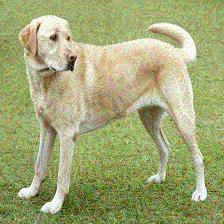
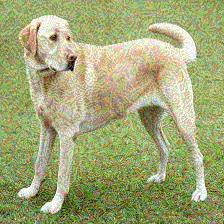
temps

diff --git a/attackers/diffusionClassifier.py b/attackers/diffusionClassifier.py
@@ -1,10 +1,14 @@
+# Implements the Algorithm 1 Diffusion Classifier from:
+# Li, A. C., Prabhudesai, M., Duggal, S., Brown, E., & Pathak, D. (2023, September 13). 
+# Your diffusion model is secretly a zero-shot classifier. 
+# arXiv.org. https://arxiv.org/abs/2303.16203 
+
 import torch
 from diffusers import StableDiffusionPipeline
 from PIL import Image
 import numpy as np
 
 pipe = StableDiffusionPipeline.from_pretrained("runwayml/stable-diffusion-v1-5", torch_dtype=torch.float16).to("cuda")
-
 
 tokenizer = pipe.tokenizer
 text_encoder = pipe.text_encoder
@@ -23,29 +27,41 @@ def encode_prompts(class_prompts):
 def diffusion_classifier(image_path, class_prompts, trials):
     cond_inp = encode_prompts(class_prompts)
     
+    # Prep input
     x = Image.open(image_path).convert("RGB")
-     
+    
     import torchvision.transforms.functional as TF
     x = x.resize((512, 512))
     img_tensor = TF.to_tensor(x).unsqueeze(0) * 2.0 - 1.0
     img_tensor = img_tensor.to("cuda", torch.float16)
     
-    
+    # Compress image to latent
     posterior = vae.encode(img_tensor).latent_dist
     latents = posterior.sample() * 0.18215
     
+    # List of loss error's for prompt c.
     errors = [[] for _ in range(len(cond_inp))]
-    for i in range(trials):
+    
+    # Monte Carlo loop
+    for i in range(trials): 
+        # Sample random timestamp t
         t = torch.randint(0, scheduler.config.num_train_timesteps, (1,), device=latents.device)
+        # Sample gaussian noise ε
         noise = torch.randn_like(latents)
         
+        # x_t = sqrt(ᾱ_t) * latents + sqrt(1 - ᾱ_t) * noise
+        # add noise to image at t
         x_t = scheduler.add_noise(latents, noise, t)
+        # Loop over each encoded prompt
         for k in range(len(cond_inp)):
             c_k = cond_inp[k:k+1]
+            # UNET outputs expected noise at t
             pred = unet(x_t, t, encoder_hidden_states=c_k).sample
+            # Noise-pred error for (t, ε) under prompt c_k
             err = ((noise - pred) ** 2).mean()
             errors[k].append(err.item())
 
+    # Take smallest mean loss for each encoded prompt, this has highest prob of being the "correct" prompt
     mean_errors = [np.mean(errors[i]) for i in range(len(cond_inp))]
     best = np.argmin(mean_errors)
     
@@ -59,8 +75,8 @@ if __name__ == "__main__":
         "a photo of a school bus",
         "a photo of an iguana",
     ]
-    result = diffusion_classifier("fgsm_img.jpg", class_prompts, trials=20)
-    base = diffusion_classifier("YellowLabradorLooking_new.jpg", class_prompts, trials=20)
+    result = diffusion_classifier("fgsm_img.jpg", class_prompts, trials=40)
+    base = diffusion_classifier("YellowLabradorLooking_new.jpg", class_prompts, trials=40)
     print(base)
     print(result)
     

diff --git a/protection/fgsm.py b/protection/fgsm.py
@@ -64,5 +64,5 @@ def fgsm(image_path, epsilon):
     return adv_x
 
 if __name__ == "__main__":
-    img = fgsm("YellowLabradorLooking_new.jpg", 0.1)
+    img = fgsm("YellowLabradorLooking_new.jpg", 0.15)
     display_images(img)
